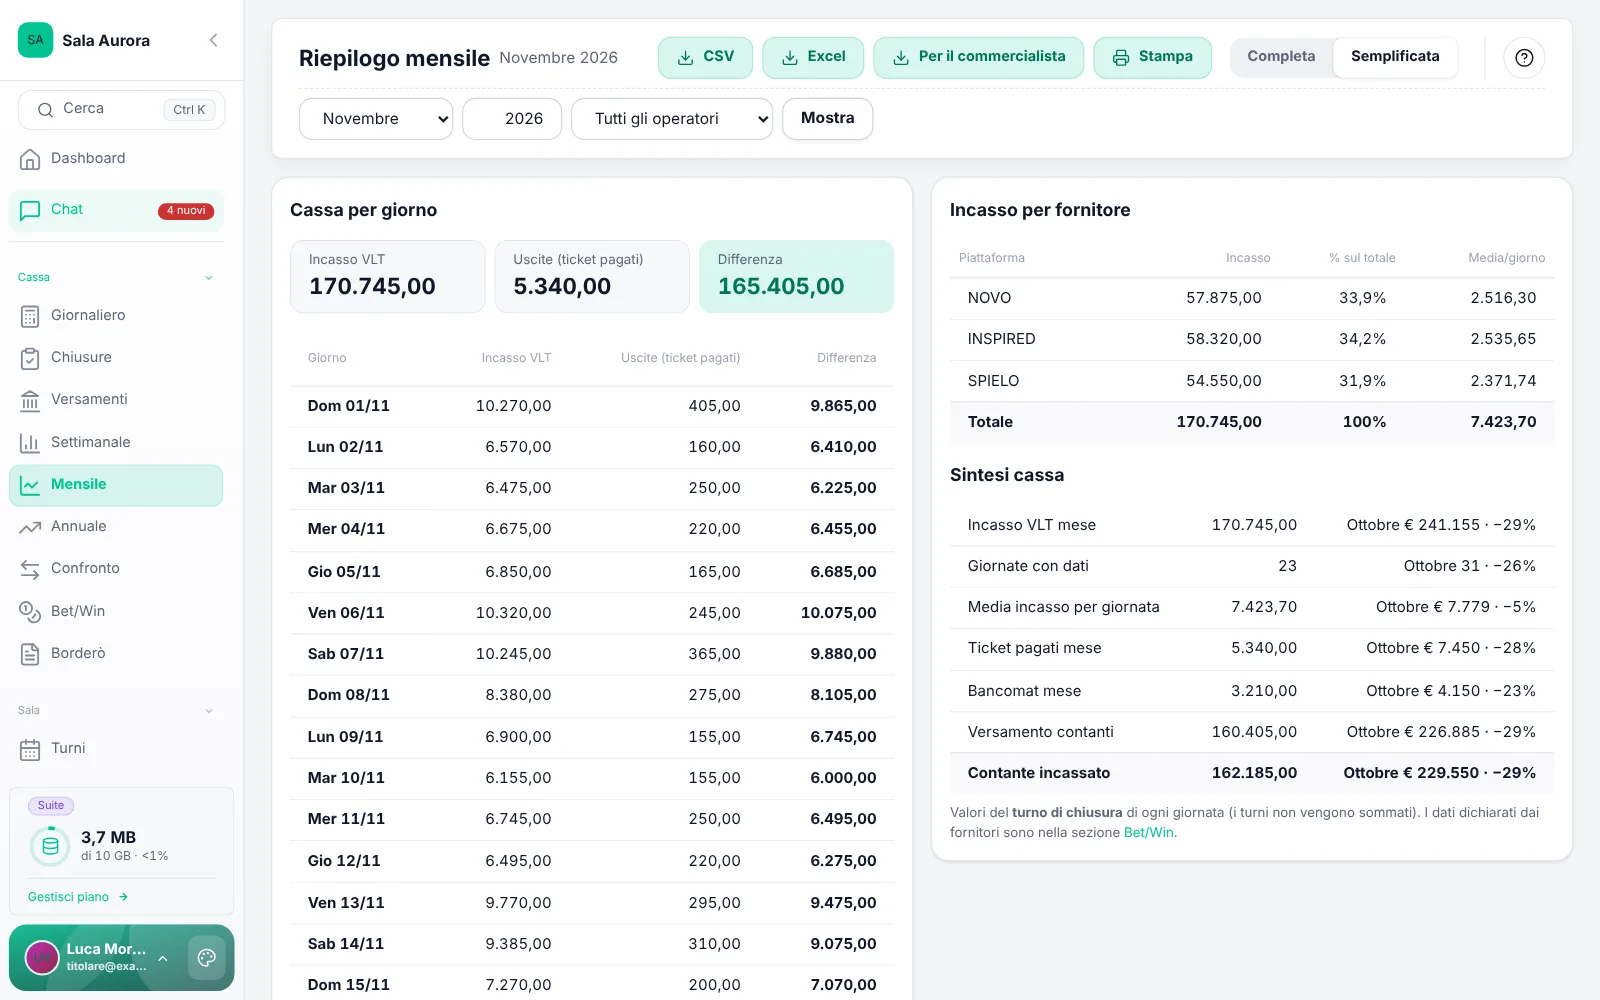
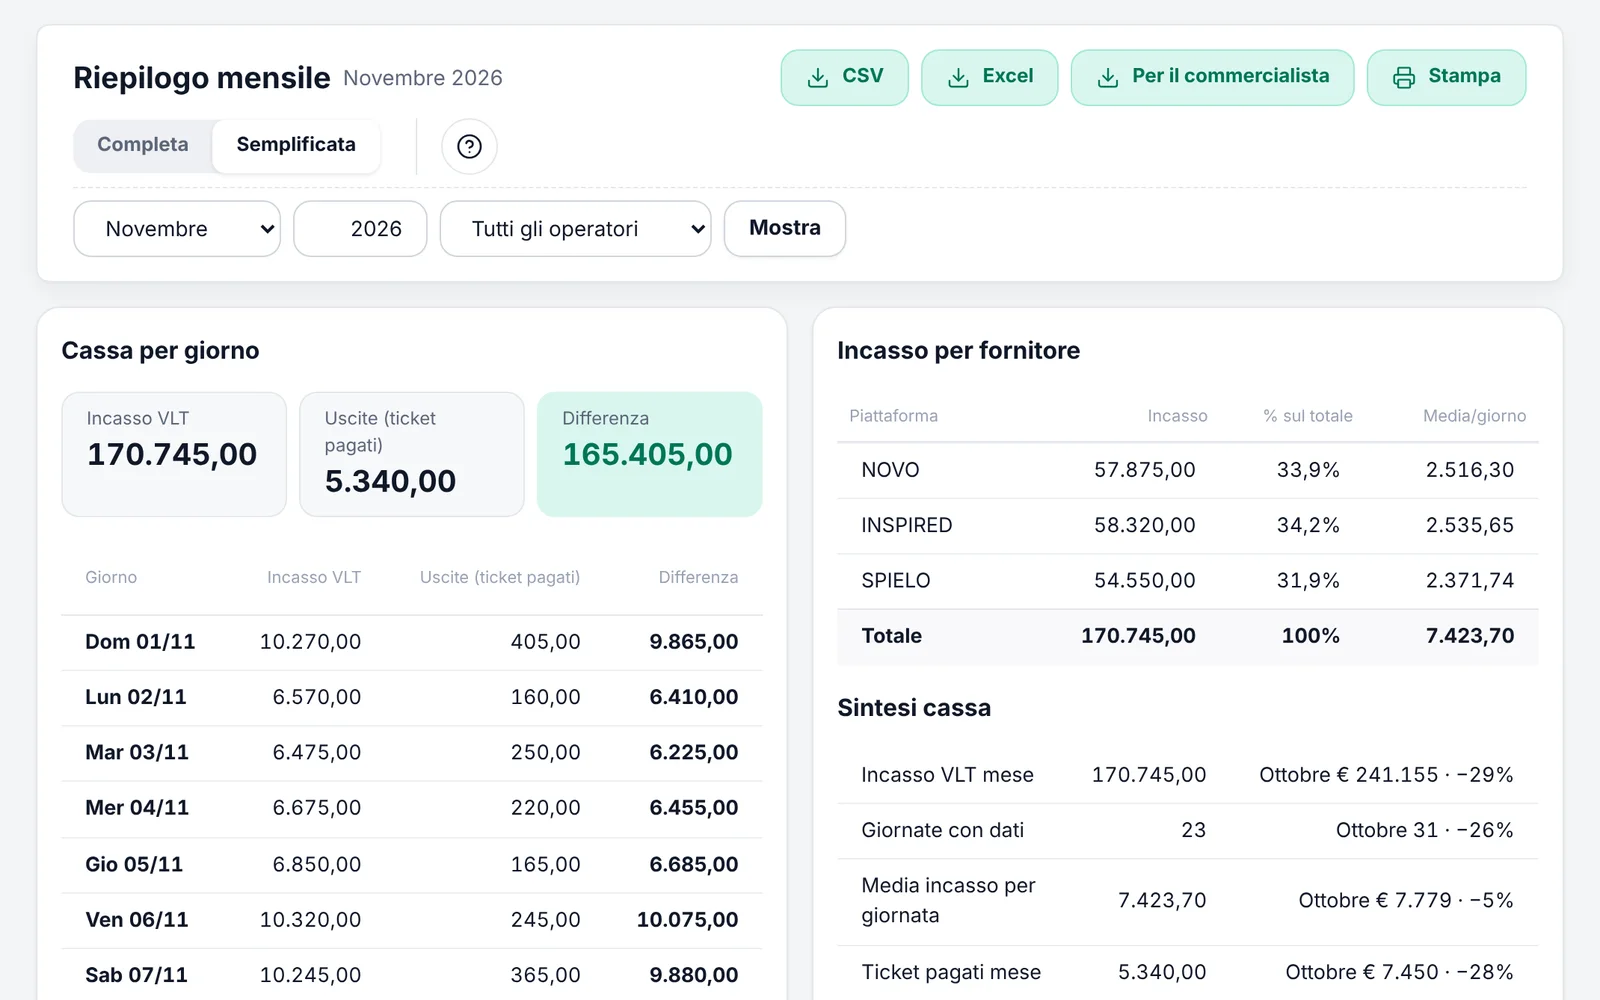
Menu funzionante su iPad e schermate più leggibili su fondo a tema
Claude-Session: https://claude.ai/code/session_01ADPLWCBWiakgAwSsRqKMfF

diff --git a/src/styles/site.css b/src/styles/site.css
@@ -175,6 +175,10 @@ a.card:hover { border-color: var(--accent-line); box-shadow: var(--sh-2) }
 .shot-bar i { width: 10px; height: 10px; border-radius: 50%; background: var(--border-strong) }
 .shot-bar span { margin-left: 10px; font-size: 12px; color: var(--faint); overflow: hidden; text-overflow: ellipsis; white-space: nowrap }
 .shot img { width: 100%; height: auto; background: #f4f5f7 }
+.stage { position: relative; padding: 40px 0 0 40px; border-radius: var(--r-l); background: var(--accent-weak); overflow: hidden; isolation: isolate }
+.stage::before { content: ''; position: absolute; inset: 0; z-index: -1; background-image: radial-gradient(color-mix(in srgb, var(--accent) 22%, transparent) 1px, transparent 1.5px); background-size: 16px 16px; opacity: .7 }
+.stage .shot { border-radius: var(--r-m) 0 0 0; border-right: 0; border-bottom: 0; box-shadow: 0 8px 24px rgba(15, 23, 42, .10) }
+:root[data-theme="dark"] .stage { background: color-mix(in srgb, var(--accent) 14%, var(--surface)) }
 .phone { width: min(300px, 78vw); border-radius: 38px; padding: 9px; background: #0c1424; box-shadow: var(--sh-3), inset 0 0 0 1.5px #2a3446 }
 .phone img { border-radius: 30px; width: 100%; height: auto }
 .figure-cap { margin-top: 14px; font-size: 14px; color: var(--faint); text-align: center }
@@ -276,9 +280,12 @@ a.card:hover { border-color: var(--accent-line); box-shadow: var(--sh-2) }
   .table th, .table td { padding: 11px 12px; font-size: 14px }
   .cta .actions .btn { flex: 1 1 100% }
   .shot-bar { height: 26px }
+  .stage { padding: 16px 0 0 16px }
+  .stage-c { padding: 24px }
   .shot-bar span { display: none }
 }
 .ilink { color: var(--accent-ink); font-weight: 700; text-decoration: underline; text-underline-offset: 3px }
 
 .fig-widget { margin: 0 auto; max-width: 320px; }
+.stage-c { padding: 40px; display: grid; place-items: center }
 .fig-widget img { display: block; width: 100%; height: auto; border-radius: var(--r-l); box-shadow: var(--sh-3); }

diff --git a/CHANGELOG.md b/CHANGELOG.md
@@ -4,6 +4,8 @@ Modifiche al sito gesthallsuite.it (le novità del prodotto sono in `src/data/ch
 
 ## 2026-11-23
 
+- Menu su iPad: il foglio del menu (`nav-sheet`) è fuori dalla barra in alto, che con `backdrop-filter` in Safari ne diventava il contenitore e lo schiacciava; «Prodotto» si apre al passaggio solo col mouse (`pointerenter` con `pointerType`), così un tocco non lo apre e richiude subito.
+- Schermate più leggibili: solo il contenuto dell'app senza barra laterale, a 2× e più grande nel riquadro; presentate su un fondo tenue del colore principale con la trama a puntini (`.stage` in `Shot.astro`, anche per il riquadro di Quadra).
 - Grafica allineata all'app 4.12+: pesi 400/700, niente maiuscolo né spaziatura tra le lettere, pulsanti e riquadri a tinta unita senza sfumature né ingrandimenti, ombre più piccole, etichette a pillola.
 - Nuove schermate dalla sala dimostrativa (dashboard con Quadra, giornaliero, turni, mensile, banco e report del bar, chat, ticket, backup e telefono) e nuovo video della home con Quadra e la correzione dell'orario del turno.
 - Home: sezione «Quadra, l'assistente»; turno effettivo e riquadri a tema in home, Sala e personale, Report e guida; foto del guasto nei ticket.
